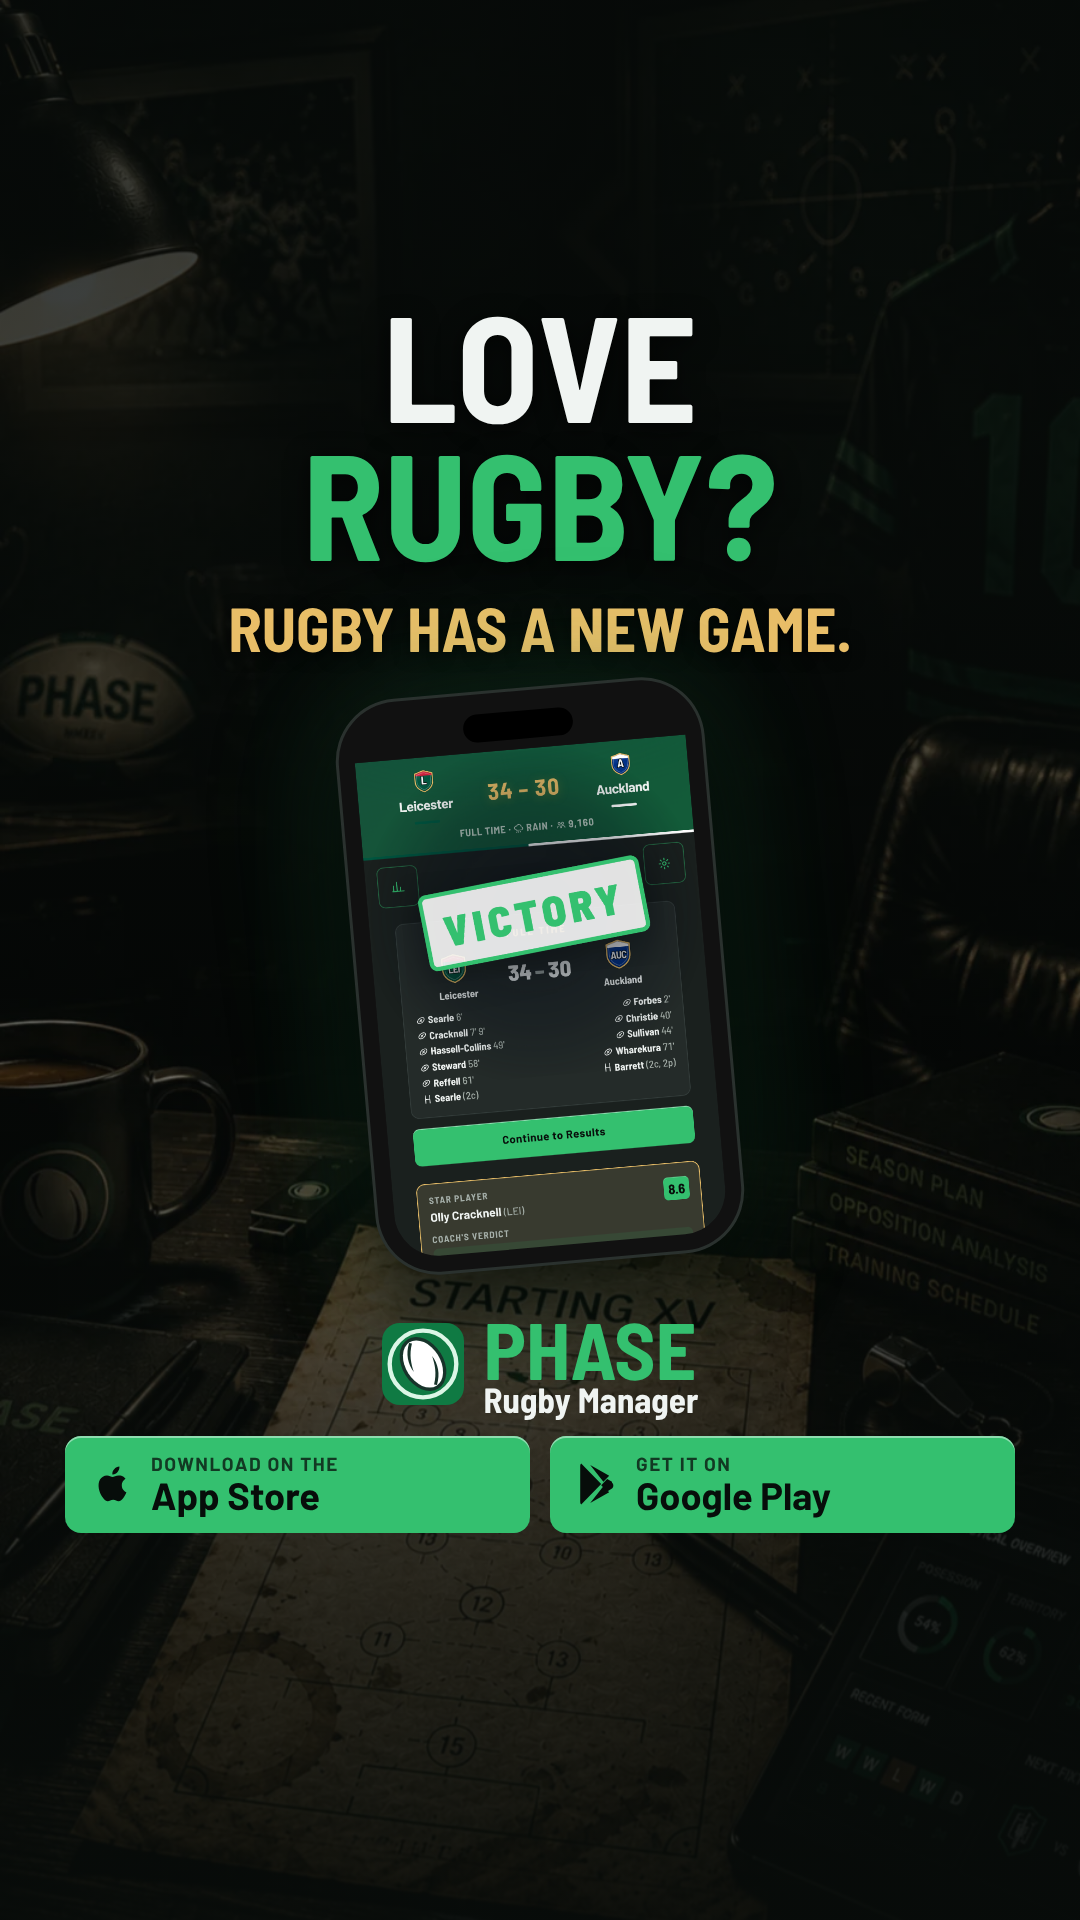
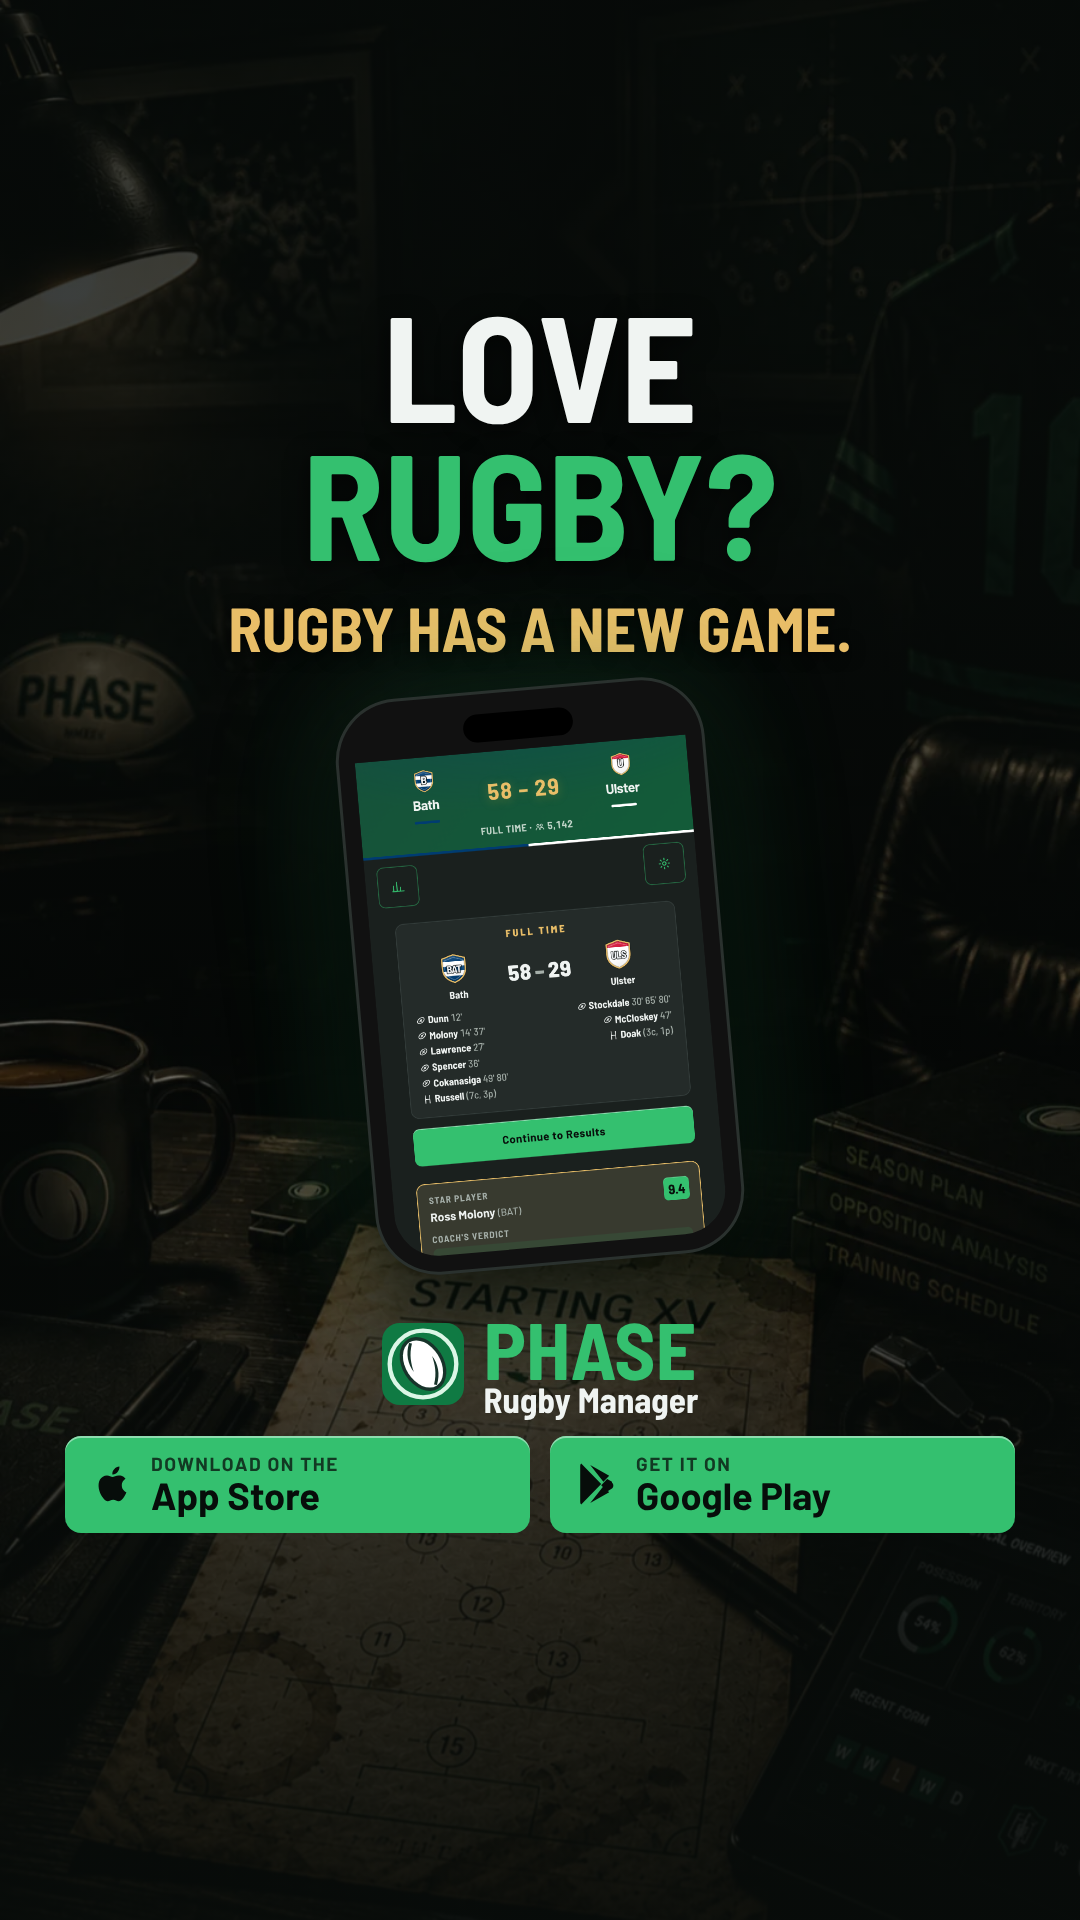
Story ad: full-time screen without the stamp (Bath 58-29 Ulster)
Claude-Session: https://claude.ai/code/session_01SkkDyBEzPXwLzKDjPnHoVw

Changed region(s): [[0.3667, 0.375, 0.6111, 0.5938]]

diff --git a/art/social/love-rugby-story/README.md b/art/social/love-rugby-story/README.md
@@ -6,4 +6,4 @@ and the 65 px side margins.
 
 `node art/social/love-rugby-story/render.cjs` re-renders both from `story.html` and
 prints whether each element (headline, subline, phone, logo, store buttons) sits inside
-the safe band. `screen.png` is a real full-time capture from the game: Leicester 34-30 Auckland, a pre-season friendly played out in a new career.
+the safe band. `screen.png` is a real full-time capture from the game: Bath 58-29 Ulster, a pre-season friendly played out in a new career.
